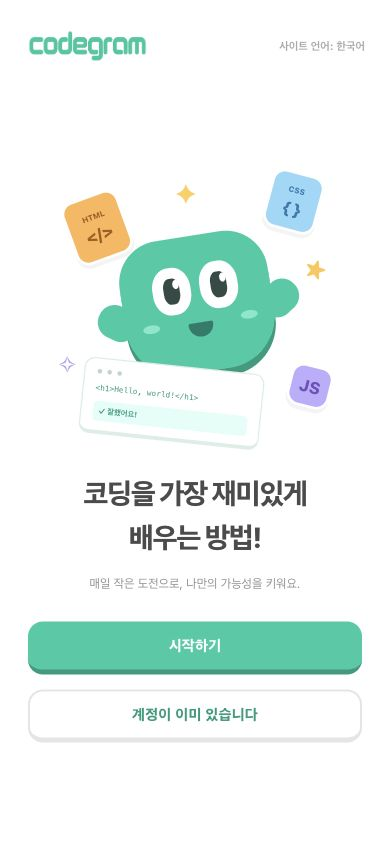
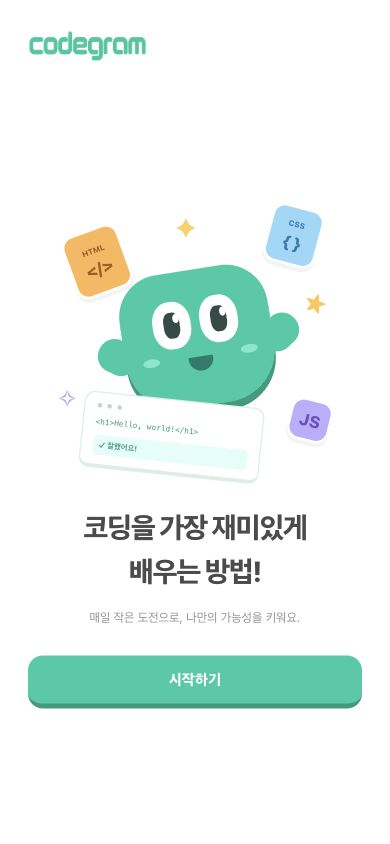
update : 인증 시작 화면 리뷰 피드백 반영 (#5)

diff --git a/src/styles/AuthPage.css b/src/styles/AuthPage.css
@@ -20,14 +20,7 @@
   height: 48px;
   object-fit: contain;
 }
-.auth-header > span {
-  font-size: 14px;
-  font-weight: 700;
-  color: #aaa;
-}
-.auth-header > span span {
-  margin-left: 8px;
-}
+
 .auth-hero {
   width: 100%;
   max-width: 1120px;
@@ -54,8 +47,7 @@
   margin: 0 0 38px;
   line-height: 1.7;
 }
-.auth-start,
-.auth-existing {
+.auth-start {
   display: block;
   width: 100%;
   max-width: 400px;
@@ -74,16 +66,6 @@
 }
 .auth-start:hover {
   background: var(--primary-hover);
-}
-.auth-existing {
-  margin-top: 15px;
-  background: white;
-  border: 2px solid #e5e5e5;
-  border-bottom-width: 5px;
-  color: var(--primary-strong);
-}
-.auth-existing:hover {
-  background: var(--primary-wash);
 }
 .auth-art {
   position: relative;
@@ -312,13 +294,7 @@
 .auth-dialog h2 {
   font-size: 25px;
   letter-spacing: -0.8px;
-  margin: 0 0 12px;
-}
-.auth-dialog > p {
-  font-size: 14px;
-  color: #929292;
   margin: 0 0 30px;
-  line-height: 1.6;
 }
 .auth-google {
   width: 100%;
@@ -356,9 +332,7 @@
   .auth-header > img {
     width: 125px;
   }
-  .auth-header > span {
-    font-size: 11px;
-  }
+
   .auth-hero {
     grid-template-columns: 1fr;
     gap: 30px;
@@ -372,8 +346,7 @@
     font-size: 12px;
     margin-bottom: 28px;
   }
-  .auth-start,
-  .auth-existing {
+  .auth-start {
     font-size: 15px;
     height: 53px;
   }

diff --git a/src/pages/AuthPage.jsx b/src/pages/AuthPage.jsx
@@ -21,7 +21,6 @@ export function AuthPage() {
     <main className="auth-page">
       <header className="auth-header">
         <img src="/coddy/sidebar/logo.svg" alt="Codegram" />
-        <span>사이트 언어: 한국어</span>
       </header>
       <section className="auth-hero" aria-labelledby="auth-title">
         <AuthIllustration />
@@ -38,13 +37,6 @@ export function AuthPage() {
             onClick={handleOpenAuthModal}
           >
             시작하기
-          </button>
-          <button
-            type="button"
-            className="auth-existing"
-            onClick={handleOpenAuthModal}
-          >
-            계정이 이미 있습니다
           </button>
         </div>
       </section>

diff --git a/src/components/auth/GoogleLoginModal.jsx b/src/components/auth/GoogleLoginModal.jsx
@@ -37,7 +37,6 @@ export function GoogleLoginModal({ onClose }) {
       ref={dialogRef}
       className="auth-dialog"
       aria-labelledby="auth-dialog-title"
-      aria-describedby="auth-dialog-description"
       onCancel={handleCancel}
       onClick={handleBackdropClick}
     >
@@ -53,7 +52,6 @@ export function GoogleLoginModal({ onClose }) {
         &lt;/&gt;
       </div>
       <h2 id="auth-dialog-title">코딩 여정을 시작해요</h2>
-      <p id="auth-dialog-description">Google 계정으로 간편하게 시작하세요.</p>
       <button type="button" className="auth-google" onClick={handleGoogleLogin}>
         <svg aria-hidden="true" viewBox="0 0 48 48">
           <path

diff --git a/README.md b/README.md
@@ -49,7 +49,7 @@ npm ci
 npm run dev
 ```
 
-터미널에 표시된 개발 서버의 `/` 또는 `/auth`에 접속합니다. ‘시작하기’와 ‘계정이 이미 있습니다’를 누르면 Google 로그인 버튼만 있는 모달이 열립니다. 기존 학습 화면은 `/journeys/html/fundamentals`에서 확인할 수 있습니다.
+터미널에 표시된 개발 서버의 `/` 또는 `/auth`에 접속합니다. ‘시작하기’를 누르면 Google 로그인 버튼만 있는 모달이 열립니다. 기존 학습 화면은 `/journeys/html/fundamentals`에서 확인할 수 있습니다.
 
 현재는 UI만 구현되어 있습니다. Google 로그인 버튼은 안내 문구만 표시하며, OAuth 요청·토큰 저장·로그인 성공 처리·학습 경로 접근 제어는 수행하지 않습니다. 후속 연동 시 `GoogleLoginModal`의 `handleGoogleLogin`에서 `api` 폴더의 인증 함수를 호출하고, 서버 명세에 맞춰 콜백·세션·실패 처리를 추가해야 합니다.
 
